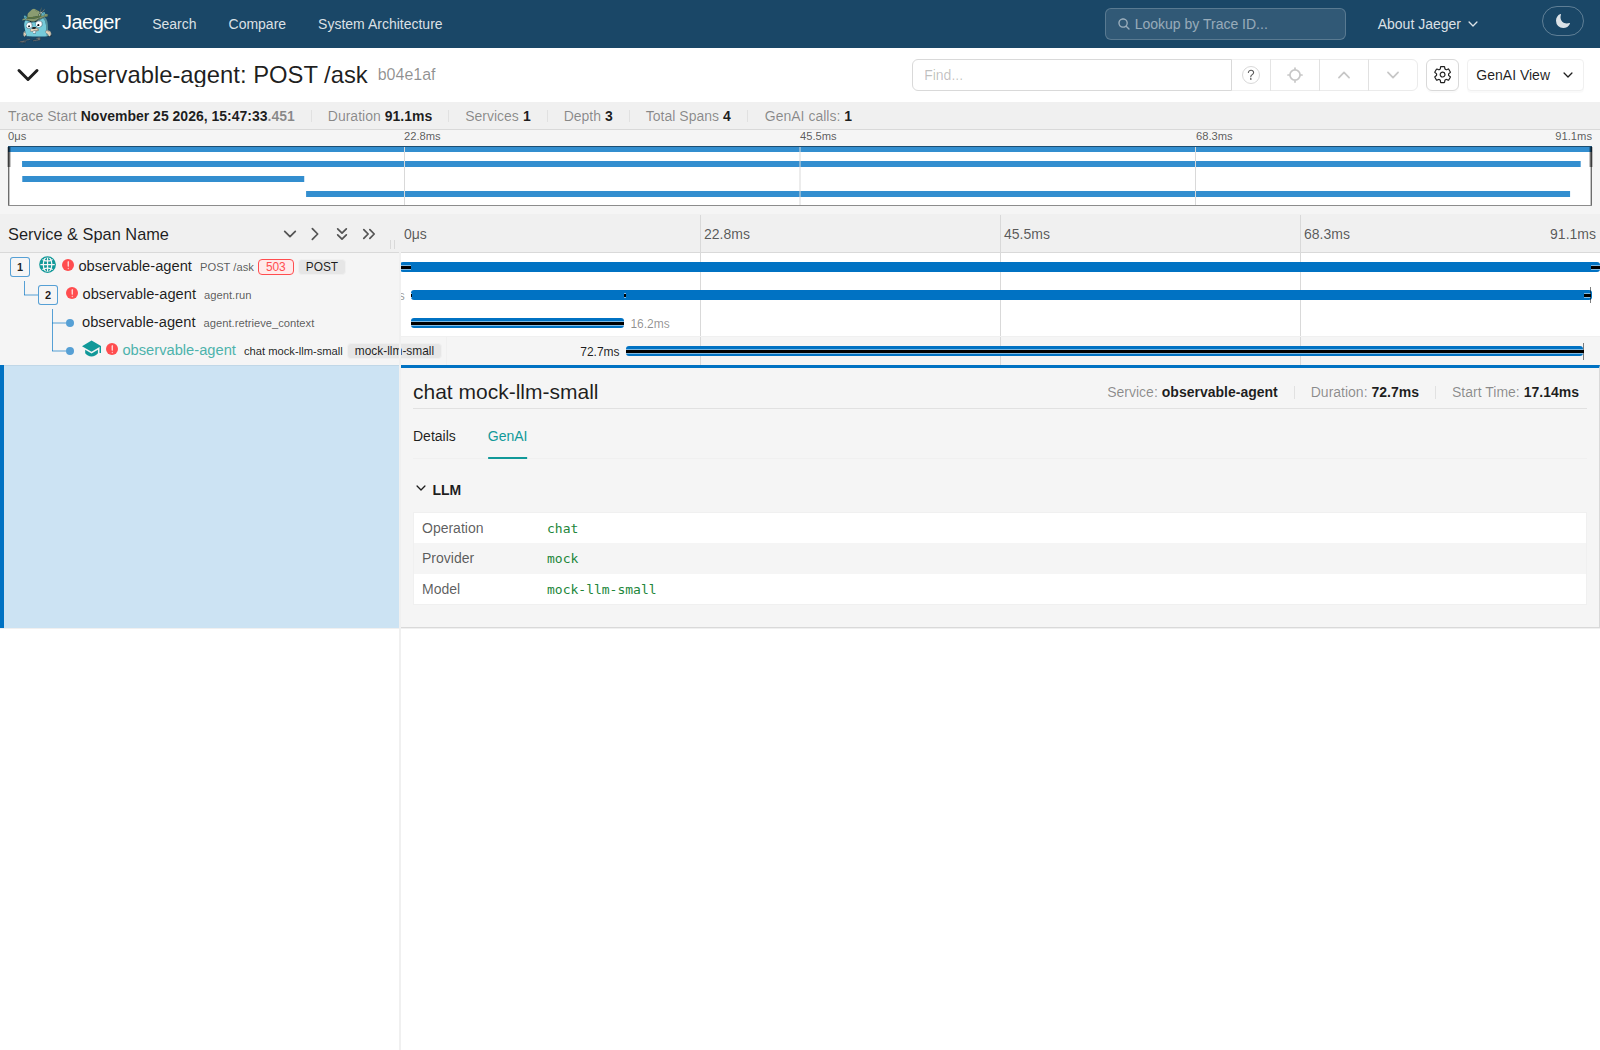
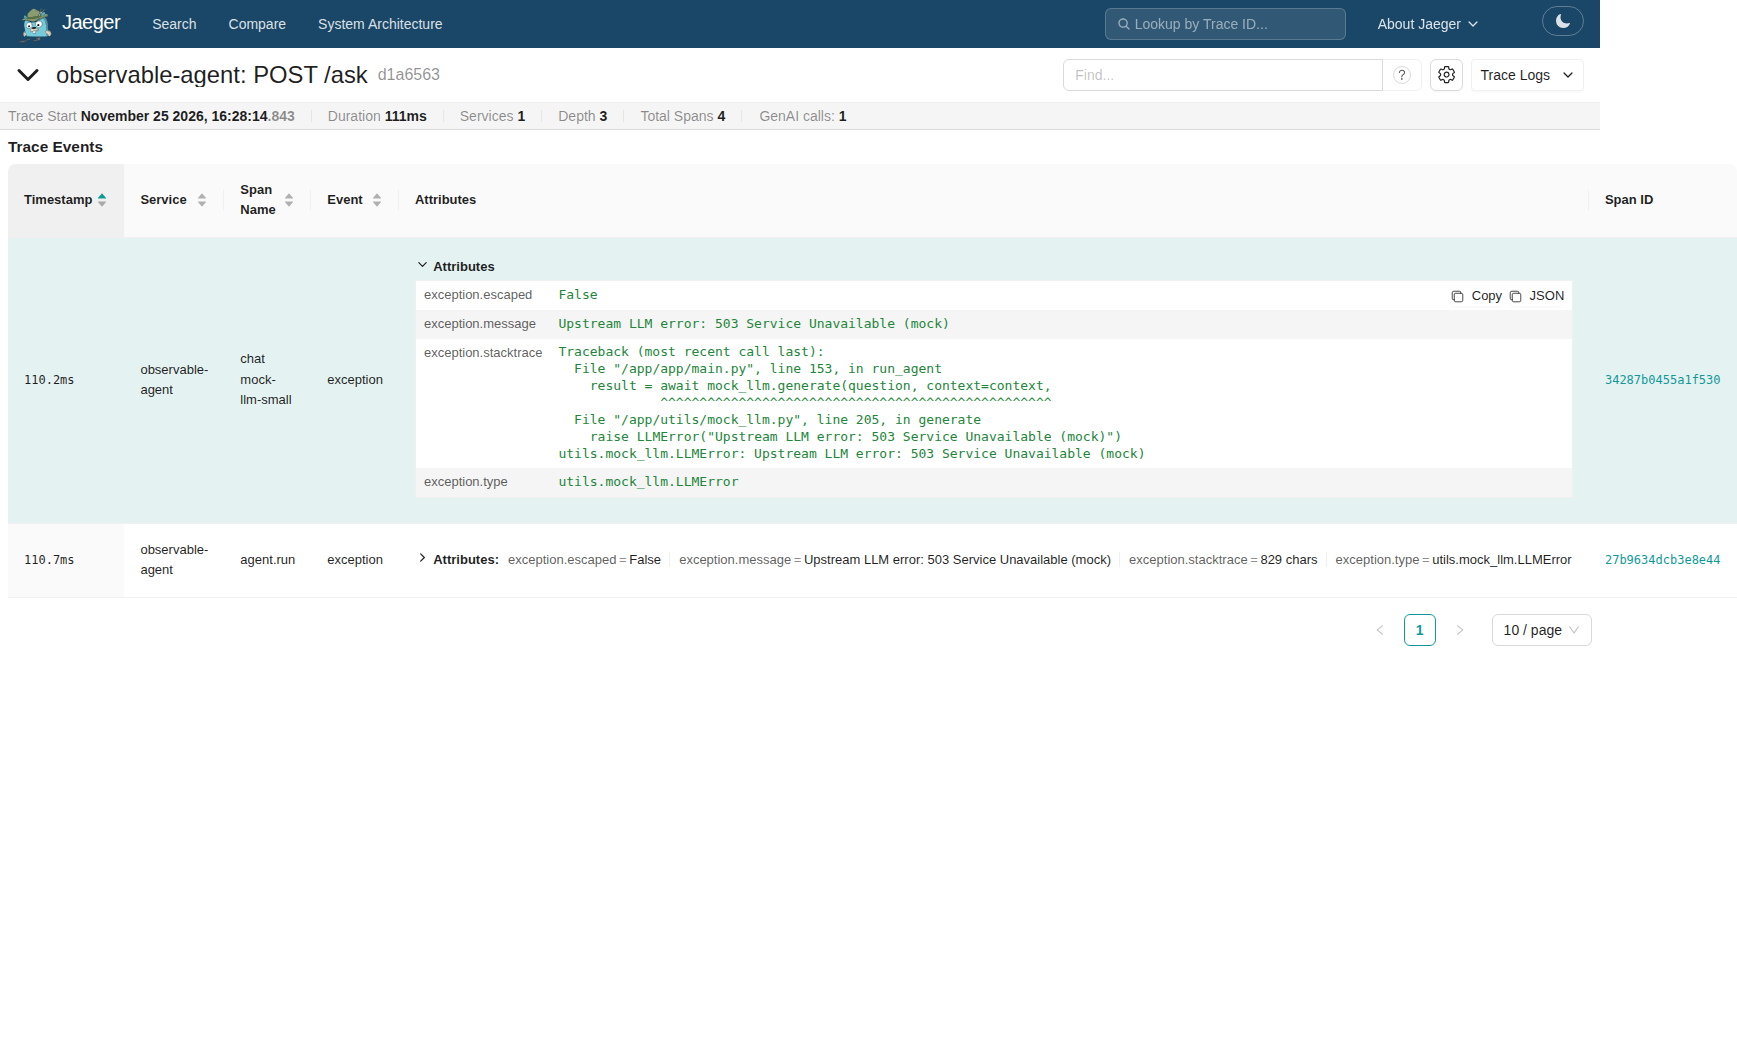
Include the expanded Jaeger exception and matching log

diff --git a/BENCHMARK_REPORT.md b/BENCHMARK_REPORT.md
@@ -109,10 +109,10 @@ Trace chậm `263f01f6658f66084acedf43f61199d6` kéo dài **1710.51 ms**. Span `
 {"ts":"2026-11-25T15:47:38.264512+00:00","level":"INFO","service":"observable-agent","instance":"6e71a40caa02","event":"llm_call","trace_id":"263f01f6658f66084acedf43f61199d6","span_id":"7f755ac19ca84d94","request_id":"079601d3c947","model":"mock-llm-small","agent_version":"v2","input_tokens":76,"output_tokens":39,"cost_usd":3.5E-05,"llm_ms":1692.8}
 ```
 
-Trace lỗi `b04e1af3ca15eaa76cd344e21da70edc` kết thúc với HTTP 503. Span model mất **72.69 ms** và có event `exception`. Jaeger API ghi `exception.type=utils.mock_llm.LLMError` và thông điệp `Upstream LLM error: 503 Service Unavailable (mock)`. Log `llm_error` mang cùng `trace_id`. [Ảnh trace lỗi](screenshots/jaeger-error-trace.png).
+Trace lỗi `d1a65633b8a5f8f5aff398349f3675ed` kéo dài **111,13 ms**. Span `chat mock-llm-small` mất **90,16 ms**. Jaeger hiển thị event `exception` với `exception.type=utils.mock_llm.LLMError` và thông điệp `Upstream LLM error: 503 Service Unavailable (mock)`. Log `llm_error` mang cùng `trace_id`. [Ảnh trace lỗi](screenshots/jaeger-error-trace.png) · [Lượt chụp](https://github.com/hung309911/K5-L3A-DAY14-NguyenQuocHung-2A202603553-Deployment-Benchmark-Observability/actions/runs/45653924832).
 
 ```json
-{"ts":"2026-11-25T15:47:33.542161+00:00","level":"INFO","service":"observable-agent","instance":"6c439d797263","event":"llm_error","trace_id":"b04e1af3ca15eaa76cd344e21da70edc","span_id":"4e7b3dcdab684166","request_id":"ca33955ca365","error":"Upstream LLM error: 503 Service Unavailable (mock)"}
+{"ts":"2026-11-25T16:28:14.954247+00:00","level":"INFO","service":"observable-agent","instance":"eb1e1f33c298","event":"llm_error","trace_id":"d1a65633b8a5f8f5aff398349f3675ed","span_id":"15459521169fd8fb","request_id":"da7e78e6200d","error":"Upstream LLM error: 503 Service Unavailable (mock)"}
 ```
 
 ## 5. Benchmark scaling bằng Locust
